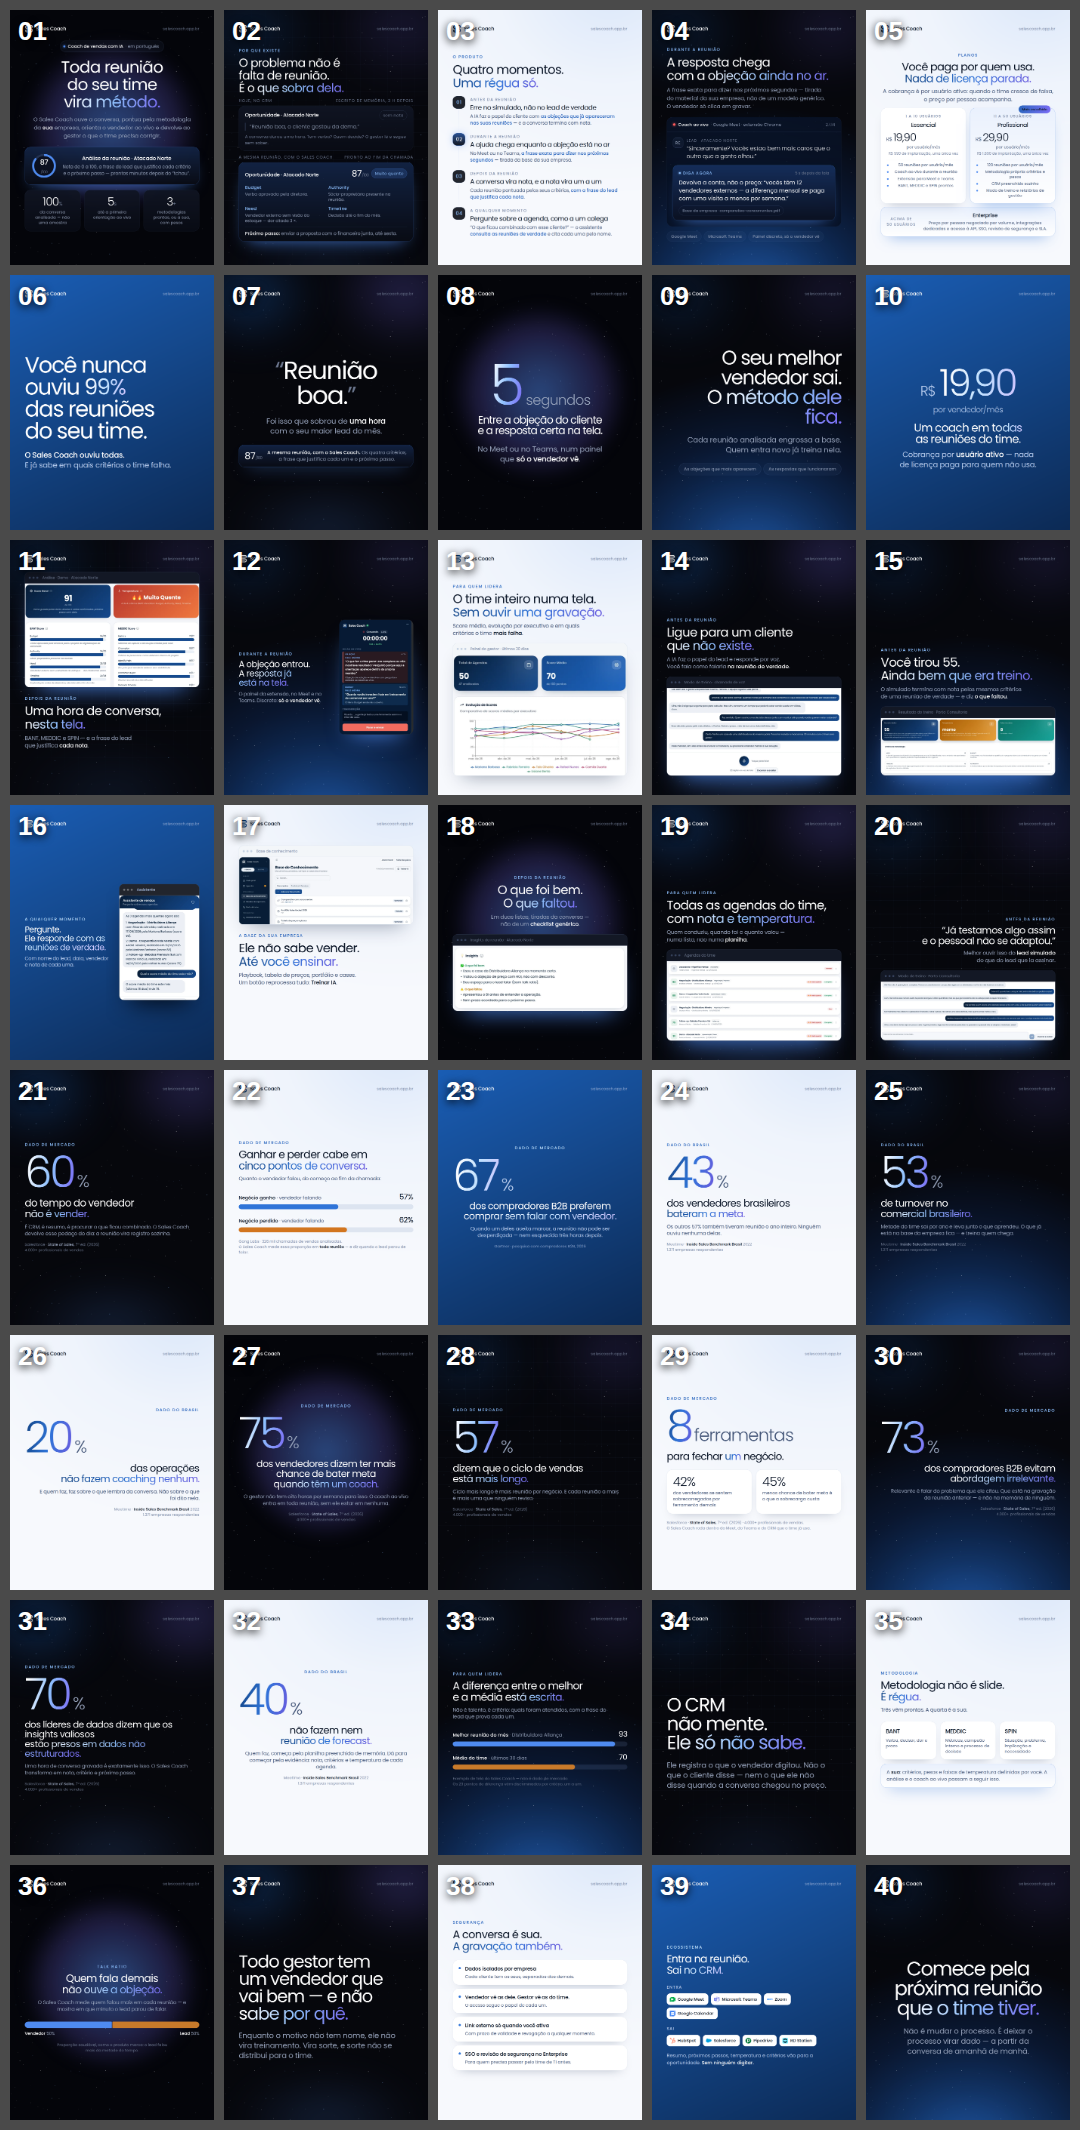
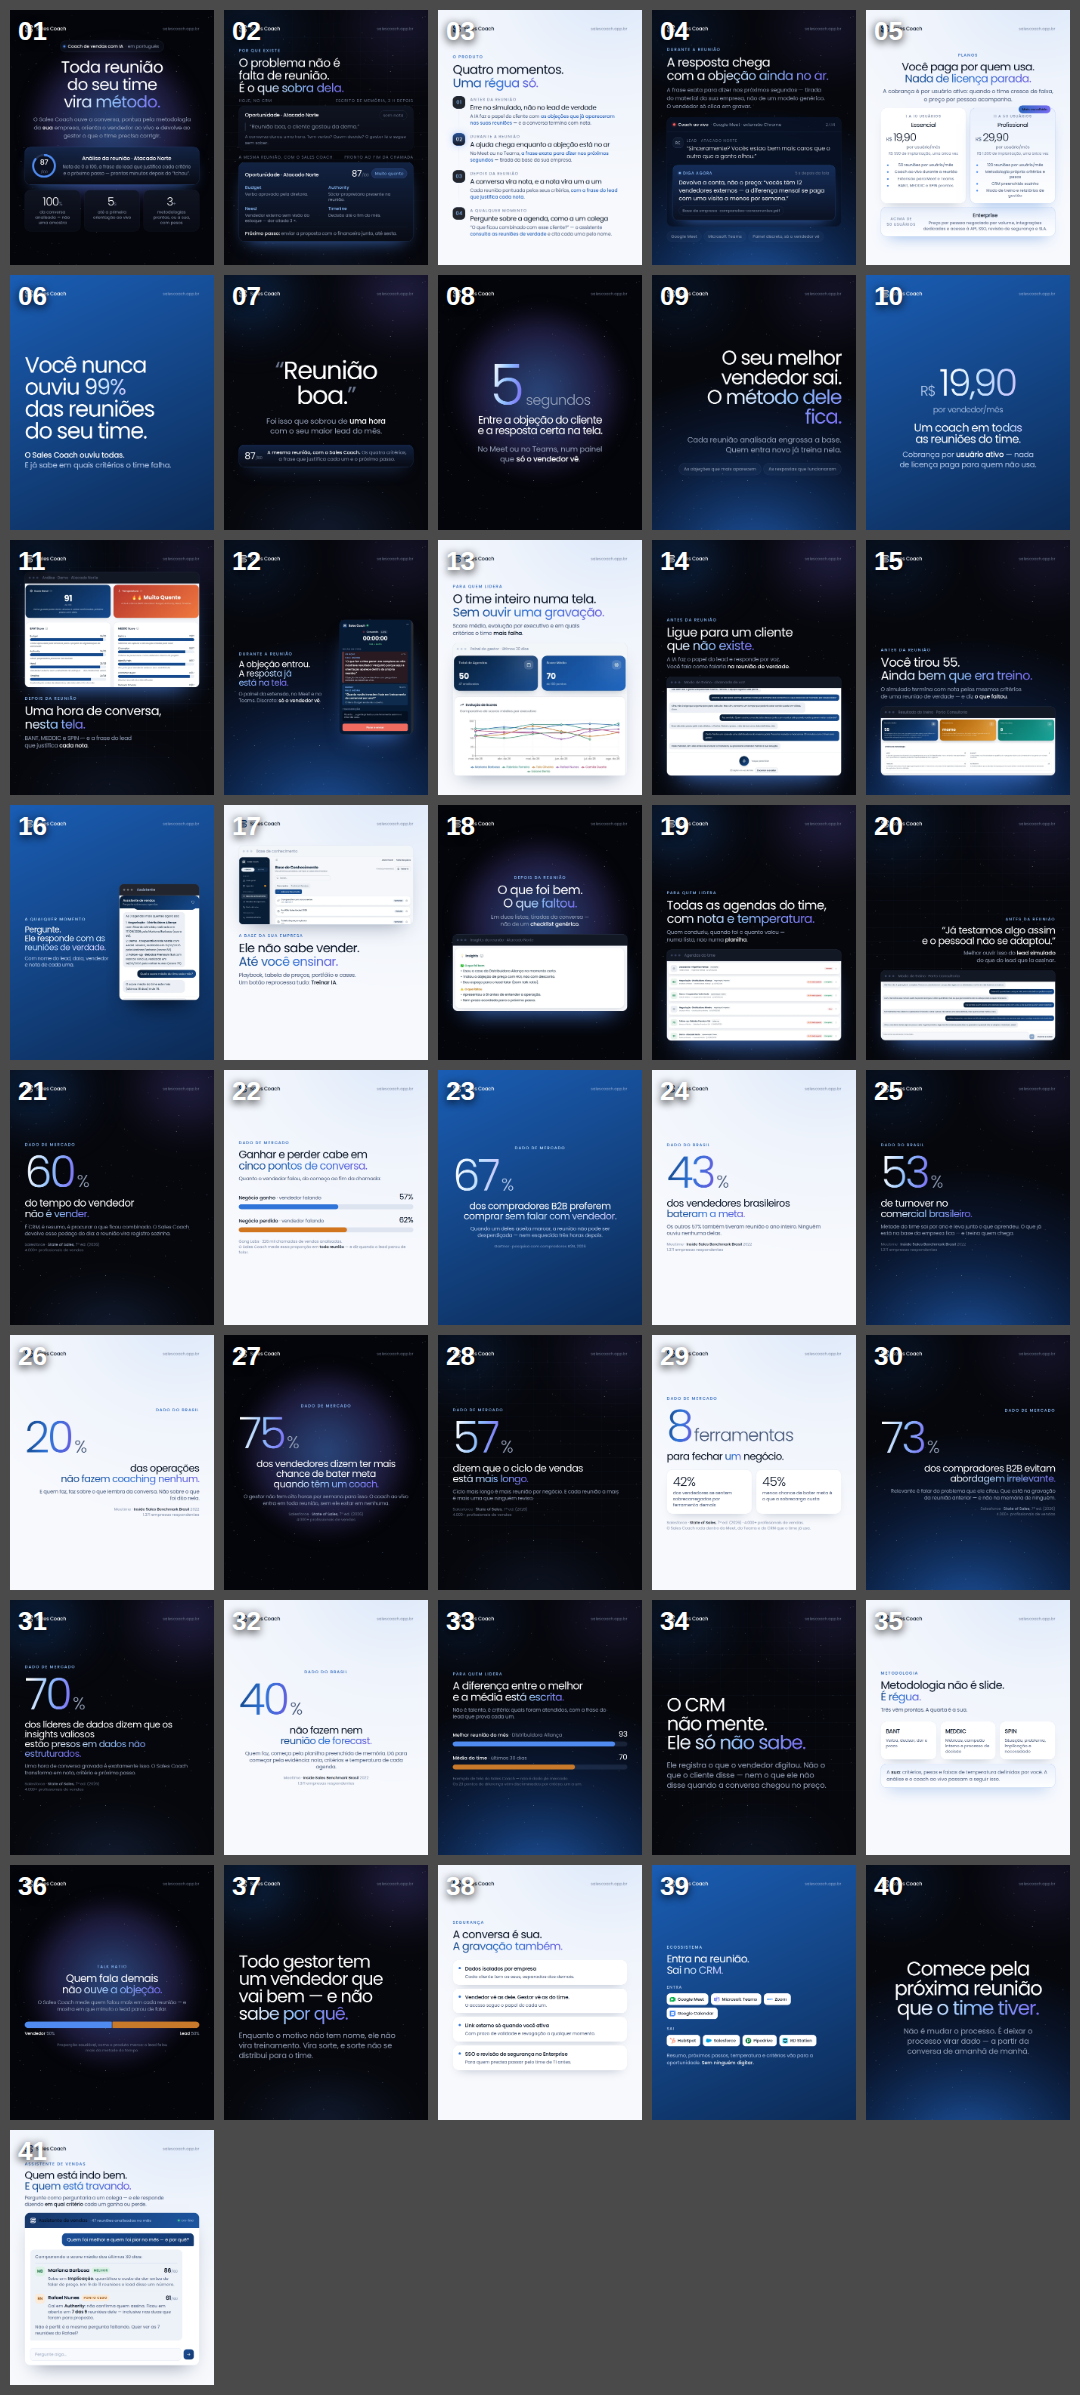
Adiciona post do assistente comparando melhor e pior vendedor
Post 41, em fundo claro, com a janela do chat desenhada em HTML. Nao da
para usar assets/app/assistente.webp: a tela real mostra outra conversa,
a das agendas mais quentes.

A janela segue a UI do assistente — barra azul-marinho, balao claro para
a resposta, balao escuro para a pergunta, campo de digitar no pe. A
resposta nao devolve so um ranking: devolve o criterio em que cada um
ganha ou perde, que e o argumento do produto. Nomes e numeros sao os
mesmos dados de exemplo que o site ja usa, e a legenda diz que a conversa
e ilustrativa.

Claude-Session: https://claude.ai/code/session_01FGgsMCvXzXCR7FNnAGtjU8

diff --git a/social/instagram/41-melhor-e-pior.html b/social/instagram/41-melhor-e-pior.html
@@ -1,0 +1,133 @@
+<!doctype html>
+<html lang="pt-BR">
+<head>
+<meta charset="utf-8">
+<title>Sales Coach · 41 · Quem vai bem e quem trava</title>
+<link rel="stylesheet" href="post.css">
+<style>
+  /* Este mockup é desenhado, não é print: a tela real do assistente mostra
+     outra conversa. Os nomes e os números são os mesmos dados de exemplo que
+     o produto usa no site, para não inventar uma operação nova.
+
+     A janela segue a UI do assistente: barra azul-marinho no topo, balão
+     claro para a resposta e balão escuro para a pergunta de quem digitou. */
+  .grow.top { flex-grow: .8; }
+  .head { margin-top: 22px; }
+  .head .h2 { margin-top: 15px; font-size: 54px; }
+  .head .after { margin-top: 16px; font-size: 26px; max-width: 840px; }
+
+  .chat { margin-top: 26px; border-radius: 28px; overflow: hidden; background: #fff;
+          border: 1px solid rgba(21,73,141,.14); box-shadow: 0 50px 100px -55px rgba(9,26,58,.5); }
+
+  .chat .barra { display: flex; align-items: center; gap: 14px; padding: 22px 28px;
+                 background: linear-gradient(120deg, #17376A, #1D55A0); color: #fff; }
+  .chat .barra img { width: 30px; height: 30px; }
+  .chat .barra b { font-size: 25px; font-weight: 500; letter-spacing: -.02em; }
+  .chat .barra span { font-size: 20px; color: #A9C4EA; }
+  .chat .barra .on { margin-left: auto; display: flex; align-items: center; gap: 9px; font-size: 19px; color: #A9C4EA; }
+  .chat .barra .on i { width: 9px; height: 9px; border-radius: 50%; background: #4ADE9A; box-shadow: 0 0 10px #4ADE9A; }
+
+  .chat .corpo { padding: 26px 28px 22px; display: flex; flex-direction: column; gap: 18px; }
+
+  /* Pergunta de quem está usando: alinhada à direita, no azul da marca. */
+  .balao-eu { align-self: flex-end; max-width: 82%; padding: 18px 26px; border-radius: 22px 22px 6px 22px;
+              background: linear-gradient(120deg, #1B4E96, #143A72); color: #fff; font-size: 24px; line-height: 1.4; }
+
+  /* Resposta: balão claro, largo, com a lista dentro. */
+  .balao-ia { align-self: flex-start; max-width: 93%; padding: 22px 26px; border-radius: 22px 22px 22px 6px;
+              background: #EDF2F9; color: #091426; font-size: 23px; line-height: 1.45; }
+  .balao-ia .intro { color: #46587A; }
+
+  .balao-ia .fecho { margin-top: 16px; color: #46587A; }
+
+  .balao-ia .intro { padding-bottom: 16px; border-bottom: 1px solid rgba(21,73,141,.12); }
+  .pessoa { display: flex; gap: 16px; align-items: flex-start; margin-top: 16px; }
+  .pessoa + .pessoa { padding-top: 16px; border-top: 1px solid rgba(21,73,141,.12); }
+  .pessoa .av { flex: 0 0 auto; width: 52px; height: 52px; border-radius: 16px; display: grid; place-items: center;
+                font-size: 20px; font-weight: 600; letter-spacing: .01em; }
+  .pessoa .av.up { background: #DCF2E6; color: #146B44; }
+  .pessoa .av.down { background: #FBEBD8; color: #9C560D; }
+  .pessoa .txt { flex: 1 1 auto; }
+  .pessoa .linha1 { display: flex; align-items: center; gap: 12px; }
+  .pessoa .nome { font-size: 25px; font-weight: 600; letter-spacing: -.01em; }
+  .pessoa .selo { font-size: 17px; font-weight: 600; letter-spacing: .06em; text-transform: uppercase;
+                  padding: 5px 12px; border-radius: 999px; }
+  .pessoa .selo.up { background: #DCF2E6; color: #146B44; }
+  .pessoa .selo.down { background: #FBEBD8; color: #9C560D; }
+  .pessoa .nota { margin-left: auto; font-size: 30px; font-weight: 600; letter-spacing: -.02em; }
+  .pessoa .nota small { font-size: 18px; font-weight: 400; color: #7C8BA8; }
+  .pessoa .por { margin-top: 7px; font-size: 22px; line-height: 1.4; color: #46587A; }
+  .pessoa .por b { font-weight: 600; color: #091426; }
+
+  .chat .entrada { display: flex; align-items: center; gap: 14px; padding: 18px 28px 24px; }
+  .chat .entrada .campo { flex: 1 1 auto; padding: 17px 24px; border-radius: 16px; border: 1px solid rgba(21,73,141,.16);
+                          background: #F7F9FD; font-size: 21px; color: #9AA7BF; }
+  .chat .entrada .enviar { flex: 0 0 auto; width: 54px; height: 54px; border-radius: 16px; display: grid; place-items: center;
+                           background: linear-gradient(120deg, #1B4E96, #143A72); }
+  .chat .entrada .enviar svg { width: 24px; height: 24px; fill: none; stroke: #fff; stroke-width: 1.8; stroke-linecap: round; stroke-linejoin: round; }
+</style>
+</head>
+<body>
+<div class="post bg-light">
+  <div class="aurora"><i class="a1"></i><i class="a2"></i><i class="a3"></i></div>
+  <canvas class="stars"></canvas>
+
+  <header class="brand">
+    <img src="../../assets/mark.png" alt="Sales Coach">
+    <span>Sales Coach</span>
+    <em class="site" style="font-style:normal">salescoach.app.br</em>
+  </header>
+
+  <div class="grow top"></div>
+
+  <div class="head">
+    <div class="kicker">Assistente de vendas</div>
+    <h2 class="h2">Quem está indo bem.<br><span class="grad">E quem está travando.</span></h2>
+    <p class="after">Pergunte como perguntaria a um colega — e ele responde dizendo <b>em qual critério</b> cada um ganha ou perde.</p>
+  </div>
+
+  <div class="chat">
+    <div class="barra">
+      <img src="../../assets/mark-white.png" alt="">
+      <b>Assistente de vendas</b>
+      <span>· 47 reuniões analisadas no mês</span>
+      <span class="on"><i></i>on-line</span>
+    </div>
+
+    <div class="corpo">
+      <div class="balao-eu">Quem foi melhor e quem foi pior no mês — e por quê?</div>
+
+      <div class="balao-ia">
+        <div class="intro">Comparando o score médio dos últimos 30 dias:</div>
+
+        <div class="pessoa">
+          <div class="av up">MB</div>
+          <div class="txt">
+            <div class="linha1"><span class="nome">Mariana Barbosa</span><span class="selo up">melhor</span><span class="nota">86<small>/100</small></span></div>
+            <div class="por">Sobe em <b>Implicação</b>: quantifica o custo da dor antes de falar de preço. Em 9 de 11 reuniões o lead disse um número.</div>
+          </div>
+        </div>
+
+        <div class="pessoa">
+          <div class="av down">RN</div>
+          <div class="txt">
+            <div class="linha1"><span class="nome">Rafael Nunes</span><span class="selo down">ponto cego</span><span class="nota">61<small>/100</small></span></div>
+            <div class="por">Cai em <b>Authority</b>: não confirma quem assina. Ficou em aberto em <b>7 das 9</b> reuniões dele — inclusive nas duas que foram para proposta.</div>
+          </div>
+        </div>
+
+        <div class="fecho">Não é perfil: é a mesma pergunta faltando. Quer ver as 7 reuniões do Rafael?</div>
+      </div>
+    </div>
+
+    <div class="entrada">
+      <div class="campo">Pergunte algo…</div>
+      <div class="enviar"><svg viewBox="0 0 24 24"><path d="M4 12h15M13 6l6 6-6 6"/></svg></div>
+    </div>
+  </div>
+
+  <div class="grow"></div>
+</div>
+<script src="stars.js"></script>
+</body>
+</html>

diff --git a/social/instagram/legendas.md b/social/instagram/legendas.md
@@ -7,6 +7,7 @@ Cinco séries, mesmo kit visual:
 - **11–20 · tela** — o print do sistema é o assunto.
 - **21–33 · dados** — número-manchete com a fonte na própria arte.
 - **34–40 · argumento** — produto, sem dado externo.
+- **41 · conversa** — mockup desenhado do assistente.
 
 Nenhum post traz botão nem oferta de teste: a chamada é o endereço no alto
 da arte. As legendas terminam em `salescoach.app.br`.
@@ -580,3 +581,29 @@ Não é mudar o processo. É deixar o processo virar dado — a partir da conver
 de amanhã de manhã.
 
 #vendas #vendasb2b #gestaodevendas #IA #salesenablement
+
+## Série conversa
+
+### 41 · `41-melhor-e-pior.png` — claro
+
+Quem está indo bem. E quem está travando.
+
+Pergunte ao assistente como perguntaria a um colega: "quem foi melhor e quem
+foi pior no mês — e por quê?".
+
+Ele não devolve um ranking. Devolve o critério:
+
+Mariana Barbosa, 86. Sobe em Implicação — quantifica o custo da dor antes de
+falar de preço. Em 9 de 11 reuniões o lead disse um número.
+
+Rafael Nunes, 61. Cai em Authority — não confirma quem assina. Ficou em aberto
+em 7 das 9 reuniões dele, inclusive nas duas que foram para proposta.
+
+A diferença entre os dois não é perfil. É uma pergunta que um faz e o outro
+não. E isso dá para treinar.
+
+(Conversa ilustrativa, com os nomes e números de exemplo do produto.)
+
+salescoach.app.br
+
+#vendas #gestaodevendas #coachdevendas #salesenablement #meddic #IA #vendasb2b

diff --git a/social/instagram/README.md b/social/instagram/README.md
@@ -1,6 +1,6 @@
 # Posts 4:5 para Instagram
 
-Quarenta posts no formato 4:5 (1080 × 1350), escritos a partir do conteúdo, da
+Quarenta e um posts no formato 4:5 (1080 × 1350), escritos a partir do conteúdo, da
 identidade visual e do foco de negócio do `index.html` deste repositório.
 Nenhum deles traz botão de CTA nem oferta de teste — a chamada é o endereço
 no alto da arte.
@@ -69,6 +69,18 @@ no alto da arte.
 | 38 | `38-dados-sao-seus.html` | Isolamento, papéis, links com validade, SSO | claro |
 | 39 | `39-entra-e-sai.html` | Ecossistema, com os logos de `assets/logos/` | marca |
 | 40 | `40-proxima-reuniao.html` | Fechamento | azul profundo · centrado |
+
+**Conversa (41)** — mockup desenhado, não print:
+
+| # | Arquivo | Tema | Fundo |
+|---|---|---|---|
+| 41 | `41-melhor-e-pior.html` | Assistente comparando o melhor e o pior vendedor | claro |
+
+O 41 não usa `assets/app/assistente.webp`: a tela real mostra outra conversa
+(as agendas mais quentes). A janela é desenhada em HTML seguindo a UI do
+assistente — barra azul-marinho, balão claro para a resposta, balão escuro
+para a pergunta. Os nomes e os números são os mesmos dados de exemplo que o
+produto usa no site, e a legenda diz que a conversa é ilustrativa.
 
 ## Dados de mercado
 
